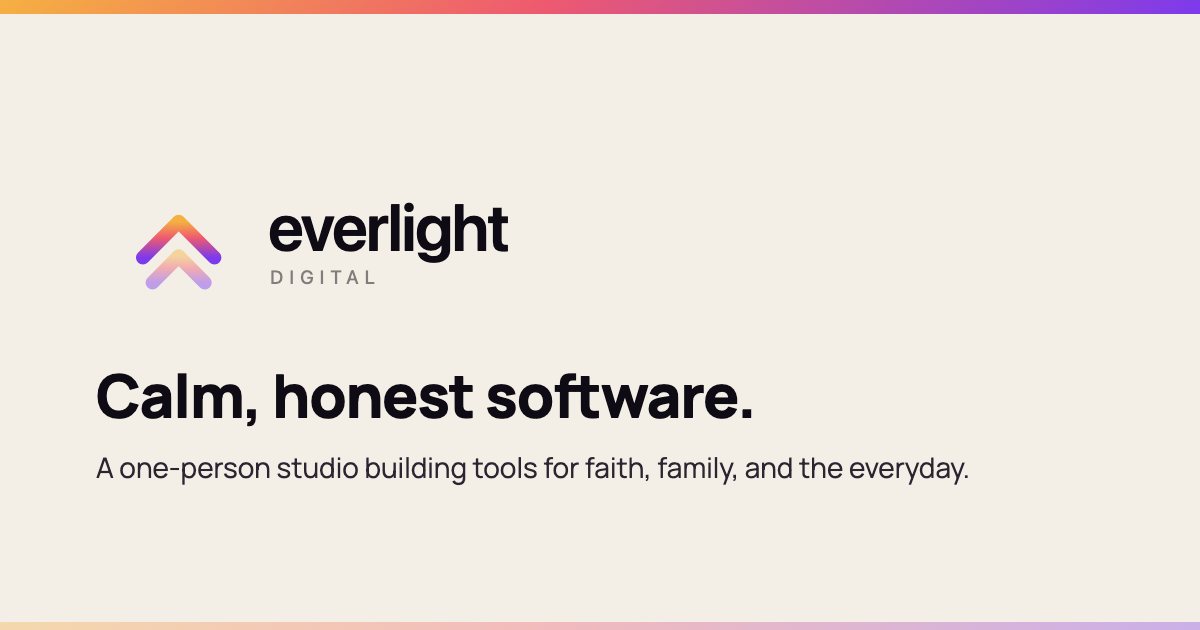
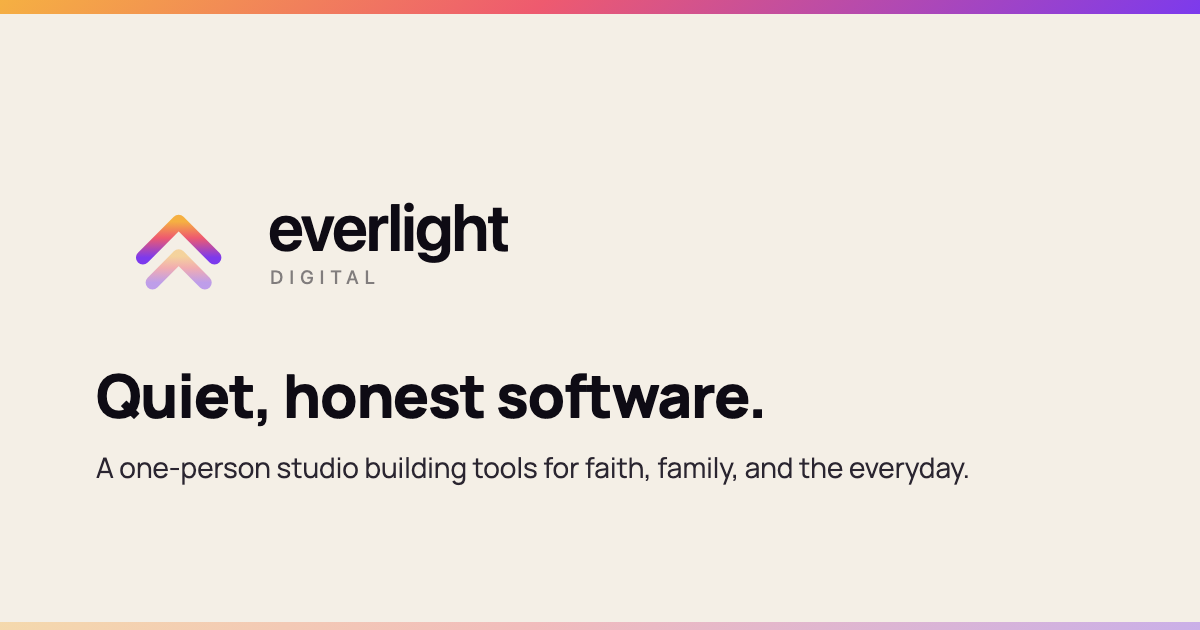
Remove "calm" from all site copy
Tagline is now "Quiet, honest software." (OG card re-rendered).
why-calm-software renamed to why-honest-software with a Netlify 301.
Sitemap regenerated.

Changed region(s): [[0.0925, 0.573, 0.6475, 0.6635]]

diff --git a/journal/why-honest-software.html b/journal/why-honest-software.html
@@ -3,9 +3,9 @@
 <head>
 <meta charset="UTF-8">
 <meta name="viewport" content="width=device-width, initial-scale=1.0">
-<title>Why we build calm, honest software — Everlight Digital</title>
+<title>Why we build quiet, honest software — Everlight Digital</title>
 <meta name="description" content="Dark patterns are the industry norm. Everlight's bet is the opposite: no manipulation, fair pricing, and respect for your attention.">
-<meta property="og:title" content="Why we build calm, honest software">
+<meta property="og:title" content="Why we build quiet, honest software">
 <meta property="og:description" content="Dark patterns are the industry norm. Everlight's bet is the opposite: no manipulation, fair pricing, and respect for your attention.">
 <meta property="og:type" content="article">
 <link rel="icon" type="image/svg+xml" href="/favicon.svg">
@@ -13,18 +13,18 @@
 <link rel="preconnect" href="https://fonts.googleapis.com">
 <link rel="preconnect" href="https://fonts.gstatic.com" crossorigin>
 <!-- seo:start (generated by tools/seo-inject.mjs — do not hand-edit) -->
-<link rel="canonical" href="https://everlight-digital.com/journal/why-calm-software.html">
-<meta property="og:url" content="https://everlight-digital.com/journal/why-calm-software.html">
+<link rel="canonical" href="https://everlight-digital.com/journal/why-honest-software.html">
+<meta property="og:url" content="https://everlight-digital.com/journal/why-honest-software.html">
 <meta property="og:site_name" content="Everlight Digital">
 <meta property="og:image" content="https://everlight-digital.com/assets/og/default.png">
 <meta property="og:image:width" content="1200">
 <meta property="og:image:height" content="630">
 <meta property="og:image:alt" content="Everlight Digital — Digital tools for what matters most.">
 <meta name="twitter:card" content="summary_large_image">
-<meta name="twitter:title" content="Why we build calm, honest software">
+<meta name="twitter:title" content="Why we build quiet, honest software">
 <meta name="twitter:description" content="Dark patterns are the industry norm. Everlight's bet is the opposite: no manipulation, fair pricing, and respect for your attention.">
 <meta name="twitter:image" content="https://everlight-digital.com/assets/og/default.png">
-<script type="application/ld+json">{"@context":"https://schema.org","@graph":[{"@type":"Article","headline":"Why we build calm, honest software","description":"Dark patterns are the industry norm. Everlight's bet is the opposite: no manipulation, fair pricing, and respect for your attention.","url":"https://everlight-digital.com/journal/why-calm-software.html","image":"https://everlight-digital.com/assets/og/default.png","datePublished":"2026-07-12","dateModified":"2026-07-25","author":{"@type":"Person","name":"Brendan Pratt"},"publisher":{"@id":"https://everlight-digital.com/#org"},"mainEntityOfPage":{"@type":"WebPage","@id":"https://everlight-digital.com/journal/why-calm-software.html"}}]}</script>
+<script type="application/ld+json">{"@context":"https://schema.org","@graph":[{"@type":"Article","headline":"Why we build quiet, honest software","description":"Dark patterns are the industry norm. Everlight's bet is the opposite: no manipulation, fair pricing, and respect for your attention.","url":"https://everlight-digital.com/journal/why-honest-software.html","image":"https://everlight-digital.com/assets/og/default.png","datePublished":"2026-07-12","dateModified":"2026-07-12","author":{"@type":"Person","name":"Brendan Pratt"},"publisher":{"@id":"https://everlight-digital.com/#org"},"mainEntityOfPage":{"@type":"WebPage","@id":"https://everlight-digital.com/journal/why-honest-software.html"}}]}</script>
 <script src="/brand/analytics.js" defer></script>
 <!-- seo:end -->
 <link rel="stylesheet" href="/brand/site.css">
@@ -37,7 +37,7 @@
 
 <article class="article">
   <p class="eyebrow">Journal</p>
-  <h1>Why we build calm, honest software</h1>
+  <h1>Why we build quiet, honest software</h1>
   <div class="date">July 2026</div>
 
   <p>Open almost any app on your phone and watch what it does in the first ten seconds. A streak counter flashes red because you skipped a day. A notification tells you someone is "waiting" on you, except no one is. A price you didn't agree to renews automatically, buried under three menus you'd never think to check. A "free" trial asks for your card up front, betting you'll forget to cancel. None of this is an accident. It's a design discipline, taught in courses and written up in playbooks, and its explicit goal is to make you do things you wouldn't choose to do if you were thinking clearly.</p>
@@ -59,18 +59,18 @@
 
   <h2>What this looks like across the apps</h2>
 
-  <p>This isn't just a mission-statement page — it shapes actual product decisions. Pilgrim, a Bible reading app, deliberately has no streak counter and no shame if you miss a day; showing up occasionally with an open heart is still showing up. Shepherd, which helps pastors track pastoral care for their congregation, charges one flat price per tier instead of nickel-and-diming per-member add-ons, because a pastor shouldn't have to do math to decide whether checking on someone is affordable. Regen, a recovery and training dashboard, shows you your real recovery numbers instead of gamifying them into a score designed to keep you opening the app. Olive, a family organizer still in the works, keeps the household's week in one calm place without turning chores into a badge-and-streak game.
+  <p>This isn't just a mission-statement page — it shapes actual product decisions. Pilgrim, a Bible reading app, deliberately has no streak counter and no shame if you miss a day; showing up occasionally with an open heart is still showing up. Shepherd, which helps pastors track pastoral care for their congregation, charges one flat price per tier instead of nickel-and-diming per-member add-ons, because a pastor shouldn't have to do math to decide whether checking on someone is affordable. Regen, a recovery and training dashboard, shows you your real recovery numbers instead of gamifying them into a score designed to keep you opening the app. Olive, a family organizer still in the works, keeps the household's week in one steady place without turning chores into a badge-and-streak game.
 
   <p>None of these are radical ideas. They're just what software looks like when the person building it isn't optimizing for a metric that fights against your actual interests.</p>
 
   <h2>Why this is sustainable, not just idealistic</h2>
 
-  <p>I'll admit the calm-software pitch can sound like a nice sentiment that doesn't survive contact with a real business. I don't think that's true, and I think the reason is simple: manipulative software creates a lot of quiet resentment. People keep paying because canceling is a hassle, or because a streak has psychological weight, but they don't feel good about it, and eventually they leave anyway — just later, and angrier. A tool that respects you is one you actually want to keep using, and that's a better foundation for a small, long-term studio than any growth hack.
+  <p>I'll admit the honest-software pitch can sound like a nice sentiment that doesn't survive contact with a real business. I don't think that's true, and I think the reason is simple: manipulative software creates a lot of quiet resentment. People keep paying because canceling is a hassle, or because a streak has psychological weight, but they don't feel good about it, and eventually they leave anyway — just later, and angrier. A tool that respects you is one you actually want to keep using, and that's a better foundation for a small, long-term studio than any growth hack.
 
   <p>I'm not trying to convince you this is the only way to build software, or that every dark pattern is malicious — some of it is just companies chasing quarterly numbers under real pressure. I'm just telling you what I've decided to build instead, and why. If that's the kind of software you want to use, that's what you'll find across everything below.</p>
 
   <div class="made-by" style="text-align:left;margin-top:48px">
-    <p style="margin:0 0 12px">Curious what calm software actually looks like in practice?</p>
+    <p style="margin:0 0 12px">Curious what honest software actually looks like in practice?</p>
     <a class="btn btn--primary" href="/#apps">See what we build</a>
   </div>
 </article>

diff --git a/journal/olive-family-on-one-page.html b/journal/olive-family-on-one-page.html
@@ -4,9 +4,9 @@
 <meta charset="UTF-8">
 <meta name="viewport" content="width=device-width, initial-scale=1.0">
 <title>Getting the whole family onto one page — Everlight Digital</title>
-<meta name="description" content="Why the mental load of running a household lands on one person, why shared calendars don't fix it, and what a calmer family organizer looks like.">
+<meta name="description" content="Why the mental load of running a household lands on one person, why shared calendars don't fix it, and what a simpler family organizer looks like.">
 <meta property="og:title" content="Getting the whole family onto one page">
-<meta property="og:description" content="Why the mental load of running a household lands on one person, why shared calendars don't fix it, and what a calmer family organizer looks like.">
+<meta property="og:description" content="Why the mental load of running a household lands on one person, why shared calendars don't fix it, and what a simpler family organizer looks like.">
 <meta property="og:type" content="article">
 <link rel="icon" type="image/svg+xml" href="/favicon.svg">
 <meta name="theme-color" content="#0E0B14">
@@ -22,9 +22,9 @@
 <meta property="og:image:alt" content="Everlight Digital — Digital tools for what matters most.">
 <meta name="twitter:card" content="summary_large_image">
 <meta name="twitter:title" content="Getting the whole family onto one page">
-<meta name="twitter:description" content="Why the mental load of running a household lands on one person, why shared calendars don't fix it, and what a calmer family organizer looks like.">
+<meta name="twitter:description" content="Why the mental load of running a household lands on one person, why shared calendars don't fix it, and what a simpler family organizer looks like.">
 <meta name="twitter:image" content="https://everlight-digital.com/assets/og/default.png">
-<script type="application/ld+json">{"@context":"https://schema.org","@graph":[{"@type":"Article","headline":"Getting the whole family onto one page","description":"Why the mental load of running a household lands on one person, why shared calendars don't fix it, and what a calmer family organizer looks like.","url":"https://everlight-digital.com/journal/olive-family-on-one-page.html","image":"https://everlight-digital.com/assets/og/default.png","datePublished":"2026-07-12","dateModified":"2026-07-25","author":{"@type":"Person","name":"Brendan Pratt"},"publisher":{"@id":"https://everlight-digital.com/#org"},"mainEntityOfPage":{"@type":"WebPage","@id":"https://everlight-digital.com/journal/olive-family-on-one-page.html"}}]}</script>
+<script type="application/ld+json">{"@context":"https://schema.org","@graph":[{"@type":"Article","headline":"Getting the whole family onto one page","description":"Why the mental load of running a household lands on one person, why shared calendars don't fix it, and what a simpler family organizer looks like.","url":"https://everlight-digital.com/journal/olive-family-on-one-page.html","image":"https://everlight-digital.com/assets/og/default.png","datePublished":"2026-07-12","dateModified":"2026-07-25","author":{"@type":"Person","name":"Brendan Pratt"},"publisher":{"@id":"https://everlight-digital.com/#org"},"mainEntityOfPage":{"@type":"WebPage","@id":"https://everlight-digital.com/journal/olive-family-on-one-page.html"}}]}</script>
 <script src="/brand/analytics.js" defer></script>
 <!-- seo:end -->
 <link rel="stylesheet" href="/brand/site.css">
@@ -52,13 +52,13 @@
 
   <p>For a shared plan to reduce the load instead of adding to it, a few things have to be true. Everyone has to see the same thing, so there's no separate "real" list only one person can access. It has to hold more than events — tasks and routines and meals, not just timed appointments. The grocery list should come from the meal plan instead of being maintained by hand as a separate chore. And it can't nag: the moment a family organizer starts guilt-tripping people with streaks, badges, and red notification counts, it becomes one more thing to feel behind on, and people quietly stop opening it.</p>
 
-  <p>That last point matters more than it sounds. The measure of a good household tool isn't how much it can track — it's how little anyone has to think about it. If checking the plan feels calm and glancing, people use it. If it feels like an inbox, they don't.</p>
+  <p>That last point matters more than it sounds. The measure of a good household tool isn't how much it can track — it's how little anyone has to think about it. If checking the plan feels quick and glancing, people use it. If it feels like an inbox, they don't.</p>
 
   <h2>What we're building with Olive</h2>
 
-  <p>Olive is our take on this — a calm, shared home for the week's plans. Tasks, routines, and the family calendar live in one today view everyone can see. Meal planning and the grocery list are connected, so the shopping list builds itself from what you've decided to cook. And it's deliberately quiet: shared without the badges, the streaks, or the sense that the house is a scoreboard you're losing.</p>
+  <p>Olive is our take on this — a steady, shared home for the week's plans. Tasks, routines, and the family calendar live in one today view everyone can see. Meal planning and the grocery list are connected, so the shopping list builds itself from what you've decided to cook. And it's deliberately quiet: shared without the badges, the streaks, or the sense that the house is a scoreboard you're losing.</p>
 
-  <p>Olive is still in development — we'd rather ship it when it genuinely makes a household calmer than rush a version that just adds to the pile. If that's the kind of family tool you've been wishing existed, you can leave your email and we'll tell you when it's ready.</p>
+  <p>Olive is still in development — we'd rather ship it when it genuinely makes a household run easier than rush a version that just adds to the pile. If that's the kind of family tool you've been wishing existed, you can leave your email and we'll tell you when it's ready.</p>
 
   <div class="made-by" style="text-align:left;margin-top:48px">
     <p style="margin:0 0 12px">Olive is in development — get a note when it launches.</p>

diff --git a/apps/olive.html b/apps/olive.html
@@ -4,9 +4,9 @@
 <meta charset="UTF-8">
 <meta name="viewport" content="width=device-width, initial-scale=1.0">
 <title>Olive — Everlight Digital</title>
-<meta name="description" content="Olive — a calm home for your family's week. Tasks, routines, calendar, meals, and groceries in one place. Made by Everlight Digital.">
+<meta name="description" content="Olive — a steady home for your family's week. Tasks, routines, calendar, meals, and groceries in one place. Made by Everlight Digital.">
 <meta property="og:title" content="Olive — Everlight Digital">
-<meta property="og:description" content="A calm home for your family's week">
+<meta property="og:description" content="A steady home for your family's week">
 <meta property="og:type" content="website">
 <link rel="icon" type="image/svg+xml" href="/favicon.svg">
 <meta name="theme-color" content="#0E0B14">
@@ -22,9 +22,9 @@
 <meta property="og:image:alt" content="Everlight Digital — Digital tools for what matters most.">
 <meta name="twitter:card" content="summary_large_image">
 <meta name="twitter:title" content="Olive">
-<meta name="twitter:description" content="Olive — a calm home for your family's week. Tasks, routines, calendar, meals, and groceries in one place. Made by Everlight Digital.">
+<meta name="twitter:description" content="Olive — a steady home for your family's week. Tasks, routines, calendar, meals, and groceries in one place. Made by Everlight Digital.">
 <meta name="twitter:image" content="https://everlight-digital.com/assets/og/default.png">
-<script type="application/ld+json">{"@context":"https://schema.org","@graph":[{"@type":"SoftwareApplication","name":"Olive","description":"Olive — a calm home for your family's week. Tasks, routines, calendar, meals, and groceries in one place. Made by Everlight Digital.","url":"https://apps.apple.com/us/app/olive-household-rhythms/id6762567367","operatingSystem":"iOS","applicationCategory":"LifestyleApplication","publisher":{"@id":"https://everlight-digital.com/#org"}}]}</script>
+<script type="application/ld+json">{"@context":"https://schema.org","@graph":[{"@type":"SoftwareApplication","name":"Olive","description":"Olive — a steady home for your family's week. Tasks, routines, calendar, meals, and groceries in one place. Made by Everlight Digital.","url":"https://apps.apple.com/us/app/olive-household-rhythms/id6762567367","operatingSystem":"iOS","applicationCategory":"LifestyleApplication","publisher":{"@id":"https://everlight-digital.com/#org"}}]}</script>
 <script src="/brand/analytics.js" defer></script>
 <!-- seo:end -->
 <link rel="stylesheet" href="/brand/site.css">
@@ -39,7 +39,7 @@
   <img class="icon" src="/assets/apps/olive/icon.png" alt="Olive Family Organization App Icon">
   <div>
     <h1>Olive</h1>
-    <div class="tag">A calm home for your family's week</div>
+    <div class="tag">A steady home for your family's week</div>
     <div class="platform">iOS</div>
     <a class="btn btn--onlight" href="https://apps.apple.com/us/app/olive-household-rhythms/id6762567367">Download on the App Store</a>
   </div>
@@ -47,7 +47,7 @@
 
 <section class="section"><div class="wrap" style="max-width:760px">
   <p class="eyebrow">The problem</p>
-  <p style="font-size:19px;color:var(--el-stone)">Running a household means holding a hundred small things at once — who has practice, what's for dinner, what's running low, whose turn it is. It ends up scattered across texts, sticky notes, a shared calendar nobody checks, and one parent's memory. Olive pulls the moving parts of family life into one calm place the whole household can see, without turning home into another inbox to manage.</p>
+  <p style="font-size:19px;color:var(--el-stone)">Running a household means holding a hundred small things at once — who has practice, what's for dinner, what's running low, whose turn it is. It ends up scattered across texts, sticky notes, a shared calendar nobody checks, and one parent's memory. Olive pulls the moving parts of family life into one steady place the whole household can see, without turning home into another inbox to manage.</p>
 </div></section>
 
 <section class="section section--tint"><div class="wrap">
@@ -61,7 +61,7 @@
 
 <section class="section"><div class="wrap" style="max-width:680px;text-align:center">
   <p class="eyebrow">Who it's for</p>
-  <p style="font-size:19px;color:var(--el-stone)">Families and busy households who want one calm, shared place for the week's plans — not another app that turns family life into a chore chart.</p>
+  <p style="font-size:19px;color:var(--el-stone)">Families and busy households who want one steady, shared place for the week's plans — not another app that turns family life into a chore chart.</p>
   <div class="made-by">
     <p style="margin:0 0 12px">Made by <a href="/">Everlight Digital</a> — intentional tools for what matters most.</p>
     <a class="btn btn--primary" href="https://apps.apple.com/us/app/olive-household-rhythms/id6762567367">Download on the App Store</a>

diff --git a/journal/index.html b/journal/index.html
@@ -4,7 +4,7 @@
 <meta charset="UTF-8">
 <meta name="viewport" content="width=device-width, initial-scale=1.0">
 <title>Journal — Everlight Digital</title>
-<meta name="description" content="Notes on building calm, honest software — from the one-person studio behind Pilgrim, Shepherd, and more.">
+<meta name="description" content="Notes on building quiet, honest software — from the one-person studio behind Pilgrim, Shepherd, and more.">
 <link rel="icon" type="image/svg+xml" href="/favicon.svg">
 <meta name="theme-color" content="#0E0B14">
 <link rel="preconnect" href="https://fonts.googleapis.com">
@@ -12,7 +12,7 @@
 <!-- seo:start (generated by tools/seo-inject.mjs — do not hand-edit) -->
 <link rel="canonical" href="https://everlight-digital.com/journal/">
 <meta property="og:title" content="Journal">
-<meta property="og:description" content="Notes on building calm, honest software — from the one-person studio behind Pilgrim, Shepherd, and more.">
+<meta property="og:description" content="Notes on building quiet, honest software — from the one-person studio behind Pilgrim, Shepherd, and more.">
 <meta property="og:type" content="website">
 <meta property="og:url" content="https://everlight-digital.com/journal/">
 <meta property="og:site_name" content="Everlight Digital">
@@ -22,7 +22,7 @@
 <meta property="og:image:alt" content="Everlight Digital — Digital tools for what matters most.">
 <meta name="twitter:card" content="summary_large_image">
 <meta name="twitter:title" content="Journal">
-<meta name="twitter:description" content="Notes on building calm, honest software — from the one-person studio behind Pilgrim, Shepherd, and more.">
+<meta name="twitter:description" content="Notes on building quiet, honest software — from the one-person studio behind Pilgrim, Shepherd, and more.">
 <meta name="twitter:image" content="https://everlight-digital.com/assets/og/default.png">
 <script src="/brand/analytics.js" defer></script>
 <!-- seo:end -->
@@ -36,7 +36,7 @@
 
 <section class="el-hero" style="padding:64px 24px 72px">
   <h1>Journal</h1>
-  <p class="sub">Notes on building calm, honest software.</p>
+  <p class="sub">Notes on building quiet, honest software.</p>
 </section>
 
 <section class="section"><div class="wrap" style="max-width:760px">
@@ -57,8 +57,8 @@
     <li class="journal-item"><span class="date">July 2026</span><br><a href="/journal/shepherd-pastoral-care-without-a-spreadsheet">Keeping track of pastoral care without a spreadsheet</a><p class="dek">What a spreadsheet of your congregation can't do — and what to track instead.</p></li>
     <li class="journal-item"><span class="date">July 2026</span><br><a href="/journal/regen-recovery-scores-explained">Recovery scores, explained: what your watch data is actually telling you</a><p class="dek">HRV, resting heart rate, and sleep — and how to use one number to train smarter.</p></li>
     <li class="journal-item"><span class="date">July 2026</span><br><a href="/journal/pilgrim-sticking-with-a-reading-plan">How to actually stick with a Bible reading plan</a><p class="dek">Why reading plans break down, and the changes that make one last.</p></li>
-    <li class="journal-item"><span class="date">July 2026</span><br><a href="/journal/olive-family-on-one-page">Getting the whole family onto one page</a><p class="dek">Why the household's mental load lands on one person, and what a calmer organizer looks like.</p></li>
-    <li class="journal-item"><span class="date">July 2026</span><br><a href="/journal/why-calm-software">Why we build calm, honest software</a><p class="dek">The philosophy behind everything Everlight makes.</p></li>
+    <li class="journal-item"><span class="date">July 2026</span><br><a href="/journal/olive-family-on-one-page">Getting the whole family onto one page</a><p class="dek">Why the household's mental load lands on one person, and what a simpler organizer looks like.</p></li>
+    <li class="journal-item"><span class="date">July 2026</span><br><a href="/journal/why-honest-software">Why we build quiet, honest software</a><p class="dek">The philosophy behind everything Everlight makes.</p></li>
     <li class="journal-item"><span class="date">July 2026</span><br><a href="/journal/building-shepherd">Building Shepherd: pastoral care software churches actually use</a><p class="dek">What it takes to make software pastors trust.</p></li>
     <li class="journal-item"><span class="date">July 2026</span><br><a href="/journal/six-apps-in-a-year">What we learned shipping six apps in a year</a><p class="dek">Notes from a one-person studio.</p></li>
     <li class="journal-item"><span class="date">July 2026</span><br><a href="/journal/pilgrim-no-guilt">Pilgrim: a Bible app without the guilt mechanics</a><p class="dek">Why streaks and shame have no place in a prayer app.</p></li>

diff --git a/links.html b/links.html
@@ -8,6 +8,23 @@
 <meta name="robots" content="noindex">
 <link rel="icon" type="image/svg+xml" href="/favicon.svg">
 <meta name="theme-color" content="#0E0B14">
+<!-- seo:start (generated by tools/seo-inject.mjs — do not hand-edit) -->
+<link rel="canonical" href="https://everlight-digital.com/links.html">
+<meta property="og:title" content="Links">
+<meta property="og:description" content="Brendan Pratt — pastor and app maker. Prayer List, Chrona, Olive, Regen, Pilgrim, and Shepherd.">
+<meta property="og:type" content="website">
+<meta property="og:url" content="https://everlight-digital.com/links.html">
+<meta property="og:site_name" content="Everlight Digital">
+<meta property="og:image" content="https://everlight-digital.com/assets/og/default.png">
+<meta property="og:image:width" content="1200">
+<meta property="og:image:height" content="630">
+<meta property="og:image:alt" content="Everlight Digital — Digital tools for what matters most.">
+<meta name="twitter:card" content="summary_large_image">
+<meta name="twitter:title" content="Links">
+<meta name="twitter:description" content="Brendan Pratt — pastor and app maker. Prayer List, Chrona, Olive, Regen, Pilgrim, and Shepherd.">
+<meta name="twitter:image" content="https://everlight-digital.com/assets/og/default.png">
+<script src="/brand/analytics.js" defer></script>
+<!-- seo:end -->
 <link rel="stylesheet" href="/brand/site.css">
 <style>
   body.lib{margin:0;background:var(--el-ink);color:var(--el-cream);font-family:var(--el-font);min-height:100vh}
@@ -34,13 +51,13 @@
   <header class="lib-head">
     <img src="/brand/app-icon.svg" alt="Everlight Digital">
     <h1>Brendan Pratt</h1>
-    <p>Pastor &amp; app maker. Building calm tools for faith, family, and focus.</p>
+    <p>Pastor &amp; app maker. Building quiet, honest tools for faith, family, and focus.</p>
   </header>
   <ul class="lib-list">
     <li><a class="lib-link lib-link--featured" data-track href="https://apps.apple.com/us/app/pilgrim-prayer-list/id6813986018"><img src="/brand/app-icon.svg" alt=""><div><strong>Prayer List</strong><span>Keep the people you pray for close</span></div></a></li>
     <!-- TODO: Chrona App Store ID is a placeholder in repo (idXXXXXXXXXX). Linking product page until real URL exists. -->
     <li><a class="lib-link" data-track href="/apps/chrona.html"><img src="/assets/apps/chrona/icon.png" alt=""><div><strong>Chrona</strong><span>Make the most of your time</span></div></a></li>
-    <li><a class="lib-link" data-track href="https://apps.apple.com/us/app/olive-household-rhythms/id6762567367"><img src="/assets/apps/olive/icon.png" alt=""><div><strong>Olive</strong><span>A calm home for your family's week</span></div></a></li>
+    <li><a class="lib-link" data-track href="https://apps.apple.com/us/app/olive-household-rhythms/id6762567367"><img src="/assets/apps/olive/icon.png" alt=""><div><strong>Olive</strong><span>A steady home for your family's week</span></div></a></li>
     <li><a class="lib-link" data-track href="https://apps.apple.com/us/app/regen-athlete/id6764216927"><img src="/assets/apps/regen/icon.png" alt=""><div><strong>Regen</strong><span>Recovery insights for athletes</span></div></a></li>
     <li><a class="lib-link" data-track href="https://apps.apple.com/us/app/pilgrim-bible-prayer/id6769929244"><img src="/assets/apps/pilgrim/icon.png" alt=""><div><strong>Pilgrim</strong><span>Bible &amp; prayer, without the guilt</span></div></a></li>
     <li><a class="lib-link" data-track href="https://www.pastorshepherd.com"><img src="/assets/apps/shepherd/icon.png" alt=""><div><strong>Shepherd</strong><span>Pastoral care software for churches</span></div></a></li>

diff --git a/journal/chrona-natural-language-calendar.html b/journal/chrona-natural-language-calendar.html
@@ -4,9 +4,9 @@
 <meta charset="UTF-8">
 <meta name="viewport" content="width=device-width, initial-scale=1.0">
 <title>Why we type our schedules instead of tapping them — Everlight Digital</title>
-<meta name="description" content="The time wheel picker is where calendar events go to die. Why natural language scheduling is faster, calmer, and actually sticks.">
+<meta name="description" content="The time wheel picker is where calendar events go to die. Why natural language scheduling is faster, simpler, and actually sticks.">
 <meta property="og:title" content="Why we type our schedules instead of tapping them">
-<meta property="og:description" content="The time wheel picker is where calendar events go to die. Why natural language scheduling is faster, calmer, and actually sticks.">
+<meta property="og:description" content="The time wheel picker is where calendar events go to die. Why natural language scheduling is faster, simpler, and actually sticks.">
 <meta property="og:type" content="article">
 <link rel="icon" type="image/svg+xml" href="/favicon.svg">
 <meta name="theme-color" content="#0E0B14">
@@ -22,9 +22,9 @@
 <meta property="og:image:alt" content="Everlight Digital — Digital tools for what matters most.">
 <meta name="twitter:card" content="summary_large_image">
 <meta name="twitter:title" content="Why we type our schedules instead of tapping them">
-<meta name="twitter:description" content="The time wheel picker is where calendar events go to die. Why natural language scheduling is faster, calmer, and actually sticks.">
+<meta name="twitter:description" content="The time wheel picker is where calendar events go to die. Why natural language scheduling is faster, simpler, and actually sticks.">
 <meta name="twitter:image" content="https://everlight-digital.com/assets/og/default.png">
-<script type="application/ld+json">{"@context":"https://schema.org","@graph":[{"@type":"Article","headline":"Why we type our schedules instead of tapping them","description":"The time wheel picker is where calendar events go to die. Why natural language scheduling is faster, calmer, and actually sticks.","url":"https://everlight-digital.com/journal/chrona-natural-language-calendar.html","image":"https://everlight-digital.com/assets/og/default.png","datePublished":"2026-07-12","dateModified":"2026-07-12","author":{"@type":"Person","name":"Brendan Pratt"},"publisher":{"@id":"https://everlight-digital.com/#org"},"mainEntityOfPage":{"@type":"WebPage","@id":"https://everlight-digital.com/journal/chrona-natural-language-calendar.html"}}]}</script>
+<script type="application/ld+json">{"@context":"https://schema.org","@graph":[{"@type":"Article","headline":"Why we type our schedules instead of tapping them","description":"The time wheel picker is where calendar events go to die. Why natural language scheduling is faster, simpler, and actually sticks.","url":"https://everlight-digital.com/journal/chrona-natural-language-calendar.html","image":"https://everlight-digital.com/assets/og/default.png","datePublished":"2026-11-03","dateModified":"2026-11-03","author":{"@type":"Person","name":"Brendan Pratt"},"publisher":{"@id":"https://everlight-digital.com/#org"},"mainEntityOfPage":{"@type":"WebPage","@id":"https://everlight-digital.com/journal/chrona-natural-language-calendar.html"}}]}</script>
 <script src="/brand/analytics.js" defer></script>
 <!-- seo:end -->
 <link rel="stylesheet" href="/brand/site.css">

diff --git a/journal/pilgrim-praying-for-others.html b/journal/pilgrim-praying-for-others.html
@@ -24,7 +24,7 @@
 <meta name="twitter:title" content="How to remember to pray for the people who ask">
 <meta name="twitter:description" content="The hallway promise 'I'll pray for you' is easy to make and painful to forget. How to turn good intentions into an unhurried prayer rhythm.">
 <meta name="twitter:image" content="https://everlight-digital.com/assets/og/default.png">
-<script type="application/ld+json">{"@context":"https://schema.org","@graph":[{"@type":"Article","headline":"How to remember to pray for the people who ask","description":"The hallway promise 'I'll pray for you' is easy to make and painful to forget. How to turn good intentions into an unhurried prayer rhythm.","url":"https://everlight-digital.com/journal/pilgrim-praying-for-others.html","image":"https://everlight-digital.com/assets/og/default.png","datePublished":"2026-07-12","dateModified":"2026-07-12","author":{"@type":"Person","name":"Brendan Pratt"},"publisher":{"@id":"https://everlight-digital.com/#org"},"mainEntityOfPage":{"@type":"WebPage","@id":"https://everlight-digital.com/journal/pilgrim-praying-for-others.html"}}]}</script>
+<script type="application/ld+json">{"@context":"https://schema.org","@graph":[{"@type":"Article","headline":"How to remember to pray for the people who ask","description":"The hallway promise 'I'll pray for you' is easy to make and painful to forget. How to turn good intentions into an unhurried prayer rhythm.","url":"https://everlight-digital.com/journal/pilgrim-praying-for-others.html","image":"https://everlight-digital.com/assets/og/default.png","datePublished":"2026-11-03","dateModified":"2026-11-03","author":{"@type":"Person","name":"Brendan Pratt"},"publisher":{"@id":"https://everlight-digital.com/#org"},"mainEntityOfPage":{"@type":"WebPage","@id":"https://everlight-digital.com/journal/pilgrim-praying-for-others.html"}}]}</script>
 <script src="/brand/analytics.js" defer></script>
 <!-- seo:end -->
 <link rel="stylesheet" href="/brand/site.css">
@@ -74,7 +74,7 @@
 
   <p>Moving a request from &ldquo;Active&rdquo; to &ldquo;Answered&rdquo; is one of the most faith-strengthening habits you can build. Over time, that log becomes an altar of remembrance: tangible proof that prayer is not shouting into an empty void, but speaking to a Heavenly Father who hears and acts.</p>
 
-  <p>That quiet, intentional rhythm is why we built the prayer system inside <strong>Pilgrim</strong>. It isn&rsquo;t designed to be a complex database or a streak-driven habit tracker; it is a calm, distraction-free space to keep the names of the people you love before God, so no one you promised to pray for is forgotten.</p>
+  <p>That quiet, intentional rhythm is why we built the prayer system inside <strong>Pilgrim</strong>. It isn&rsquo;t designed to be a complex database or a streak-driven habit tracker; it is a quiet, distraction-free space to keep the names of the people you love before God, so no one you promised to pray for is forgotten.</p>
 
   <div class="made-by" style="text-align:left;margin-top:48px">
     <p style="margin:0 0 12px">Build an unhurried, faithful prayer rhythm.</p>

diff --git a/journal/software-you-can-finish.html b/journal/software-you-can-finish.html
@@ -24,7 +24,7 @@
 <meta name="twitter:title" content="Software you can actually finish">
 <meta name="twitter:description" content="Most modern apps are designed like infinite treadmills. Everlight builds tools with a clear 'done' state so you can get back to your life.">
 <meta name="twitter:image" content="https://everlight-digital.com/assets/og/default.png">
-<script type="application/ld+json">{"@context":"https://schema.org","@graph":[{"@type":"Article","headline":"Software you can actually finish","description":"Most modern apps are designed like infinite treadmills. Everlight builds tools with a clear 'done' state so you can get back to your life.","url":"https://everlight-digital.com/journal/software-you-can-finish.html","image":"https://everlight-digital.com/assets/og/default.png","datePublished":"2026-07-12","dateModified":"2026-07-12","author":{"@type":"Person","name":"Brendan Pratt"},"publisher":{"@id":"https://everlight-digital.com/#org"},"mainEntityOfPage":{"@type":"WebPage","@id":"https://everlight-digital.com/journal/software-you-can-finish.html"}}]}</script>
+<script type="application/ld+json">{"@context":"https://schema.org","@graph":[{"@type":"Article","headline":"Software you can actually finish","description":"Most modern apps are designed like infinite treadmills. Everlight builds tools with a clear 'done' state so you can get back to your life.","url":"https://everlight-digital.com/journal/software-you-can-finish.html","image":"https://everlight-digital.com/assets/og/default.png","datePublished":"2026-11-03","dateModified":"2026-11-03","author":{"@type":"Person","name":"Brendan Pratt"},"publisher":{"@id":"https://everlight-digital.com/#org"},"mainEntityOfPage":{"@type":"WebPage","@id":"https://everlight-digital.com/journal/software-you-can-finish.html"}}]}</script>
 <script src="/brand/analytics.js" defer></script>
 <!-- seo:end -->
 <link rel="stylesheet" href="/brand/site.css">
@@ -72,7 +72,7 @@
   <p>We are a small studio &mdash; a husband and wife building digital tools from our home &mdash; which means we have the freedom to measure success by whether our software makes your life quieter and more faithful, not by how many hours we can trap your eyes on our screens. The best apps are the ones you can finish.</p>
 
   <div class="made-by" style="text-align:left;margin-top:48px">
-    <p style="margin:0 0 12px">Explore our calm, quiet tools.</p>
+    <p style="margin:0 0 12px">Explore our quiet, focused tools.</p>
     <a class="btn btn--primary" href="/#apps">See what we make</a>
   </div>
 </article>

diff --git a/tally/index.html b/tally/index.html
@@ -45,7 +45,7 @@
 <main>
 
 <h1>Tally: Budget App for Individuals and Couples</h1>
-<p class="meta">A zero-based envelope budgeting app for iOS. Honest pricing, calm design, optional real-time household sync for couples, and optional Plaid-powered bank-transaction import so you spend a few minutes a week on money instead of an hour.</p>
+<p class="meta">A zero-based envelope budgeting app for iOS. Honest pricing, uncluttered design, optional real-time household sync for couples, and optional Plaid-powered bank-transaction import so you spend a few minutes a week on money instead of an hour.</p>
 
 <div class="card accent">
   <strong>Status:</strong> In active development. TestFlight beta and App Store submission planned for 2026. Manual-entry budgeting and iCloud household sync are shipped in code. Plaid integration is a Sprint 1 feature and requires Plaid Production approval — this page accompanies that application.
@@ -62,7 +62,7 @@
 </ul>
 
 <h2>Who Tally Is For</h2>
-<p>The target user is a U.S.-based adult who wants a calm, opinionated budgeting app and is willing to assign every dollar to an envelope. This includes:</p>
+<p>The target user is a U.S.-based adult who wants a simple, opinionated budgeting app and is willing to assign every dollar to an envelope. This includes:</p>
 <ul>
   <li><strong>Solo budgeters</strong> — single, divorced, widowed, or sharing a roof but not finances — who want zero-based budgeting without a spouse on the account.</li>
   <li><strong>Couples</strong> in their 20s, 30s, or 40s who want their partner on the same screen, with the same data, on day one — not as an upsell.</li>

diff --git a/index.html b/index.html
@@ -78,9 +78,9 @@
   <p class="actions"><a class="store" href="https://apps.apple.com/us/app/chrona-calendar-tasks/id6788943940">Download Chrona on the App Store</a><a class="more" href="/apps/chrona">Learn more<span class="sr-only"> about Chrona</span> →</a></p>
 </section>
 <section class="app-sec" id="olive" aria-labelledby="olive-h">
-  <figure class="phone"><div class="phone__screen"><div class="type-screen type-screen--olive" role="img" aria-label="Olive app icon"><img src="/assets/apps/olive/icon.png" alt="" loading="lazy"><span class="ts-title">Olive</span><span class="ts-sub">A calm home for your family’s week</span></div></div></figure>
+  <figure class="phone"><div class="phone__screen"><div class="type-screen type-screen--olive" role="img" aria-label="Olive app icon"><img src="/assets/apps/olive/icon.png" alt="" loading="lazy"><span class="ts-title">Olive</span><span class="ts-sub">A steady home for your family’s week</span></div></div></figure>
   <p class="kicker">Olive · iOS</p>
-  <h2 id="olive-h">A calm home<br>for your family’s week.</h2>
+  <h2 id="olive-h">A steady home<br>for your family’s week.</h2>
   <p class="lede">Tasks, routines, the family calendar, meals, and groceries in <mark>one shared place the whole household can see</mark> — without badges and streaks guilt-tripping anyone.</p>
   <p class="actions"><a class="store" href="https://apps.apple.com/us/app/olive-household-rhythms/id6762567367">Download Olive on the App Store</a><a class="more" href="/apps/olive">Learn more<span class="sr-only"> about Olive</span> →</a></p>
 </section>

diff --git a/journal/christian-daily-prayer-app-finding-rhythm.html b/journal/christian-daily-prayer-app-finding-rhythm.html
@@ -56,7 +56,7 @@
 
   <h2>Finding Your Rhythm with Pilgrim</h2>
 
-  <p>This philosophy is why we built Pilgrim. Pilgrim is a Bible and prayer app designed without guilt mechanics. It offers a calm, focused environment to track your prayer requests and scripture reading. It doesn't nag you with notifications or punish you for taking a break.</p>
+  <p>This philosophy is why we built Pilgrim. Pilgrim is a Bible and prayer app designed without guilt mechanics. It offers a quiet, focused environment to track your prayer requests and scripture reading. It doesn't nag you with notifications or punish you for taking a break.</p>
 
   <p>Instead, Pilgrim focuses on helping you build a sustainable rhythm. Whether you pray in the morning, during your commute, or before bed, Pilgrim is there to help you pick up right where you left off. It's a Christian daily prayer app designed to foster a deeper, more intentional prayer life, free from the noise of modern app design.</p>
 

diff --git a/tools/og-template.html b/tools/og-template.html
@@ -50,7 +50,7 @@
   <div class="bar"></div>
   <div class="body">
     <img class="lockup" src="../brand/lockup-light.svg" alt="">
-    <h1>Calm, honest software.</h1>
+    <h1>Quiet, honest software.</h1>
     <p>A one-person studio building tools for faith, family, and the everyday.</p>
   </div>
   <div class="foot"></div>
